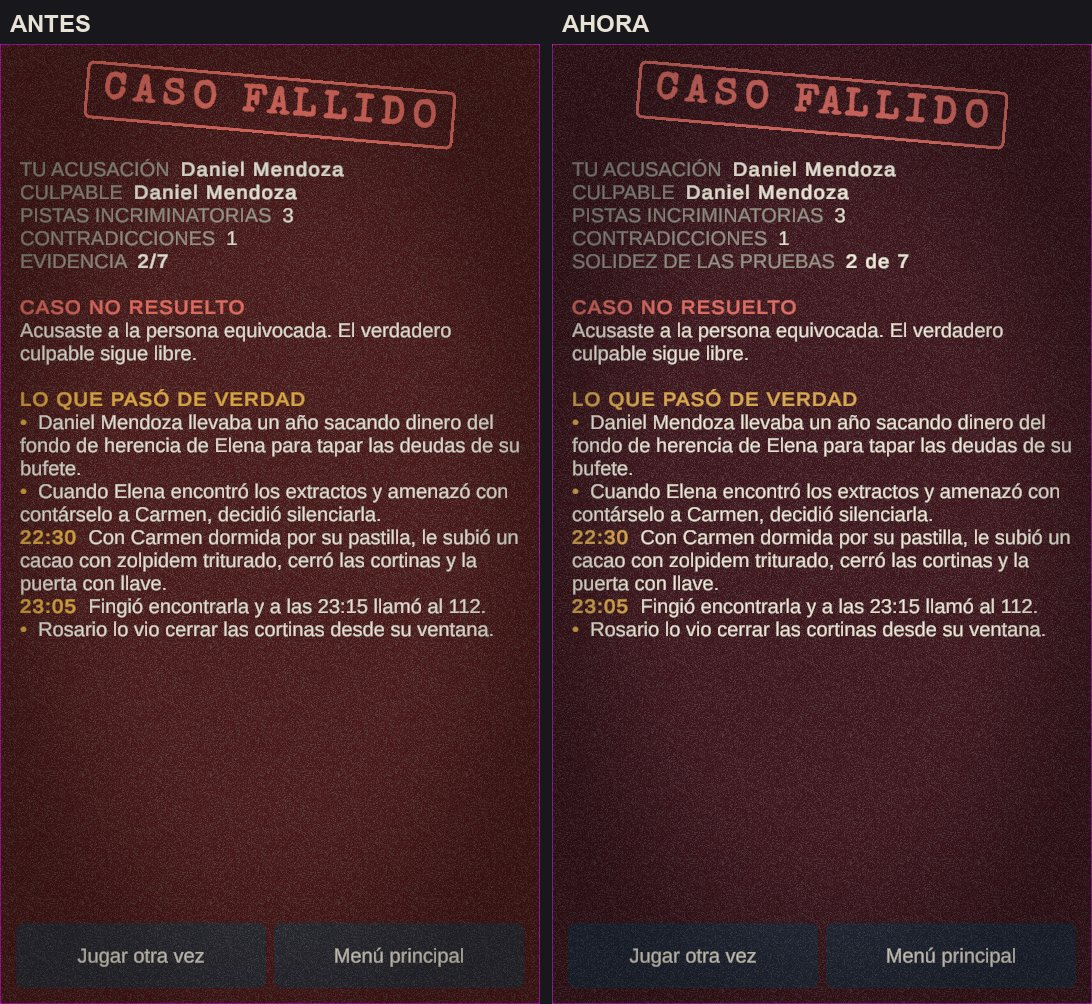
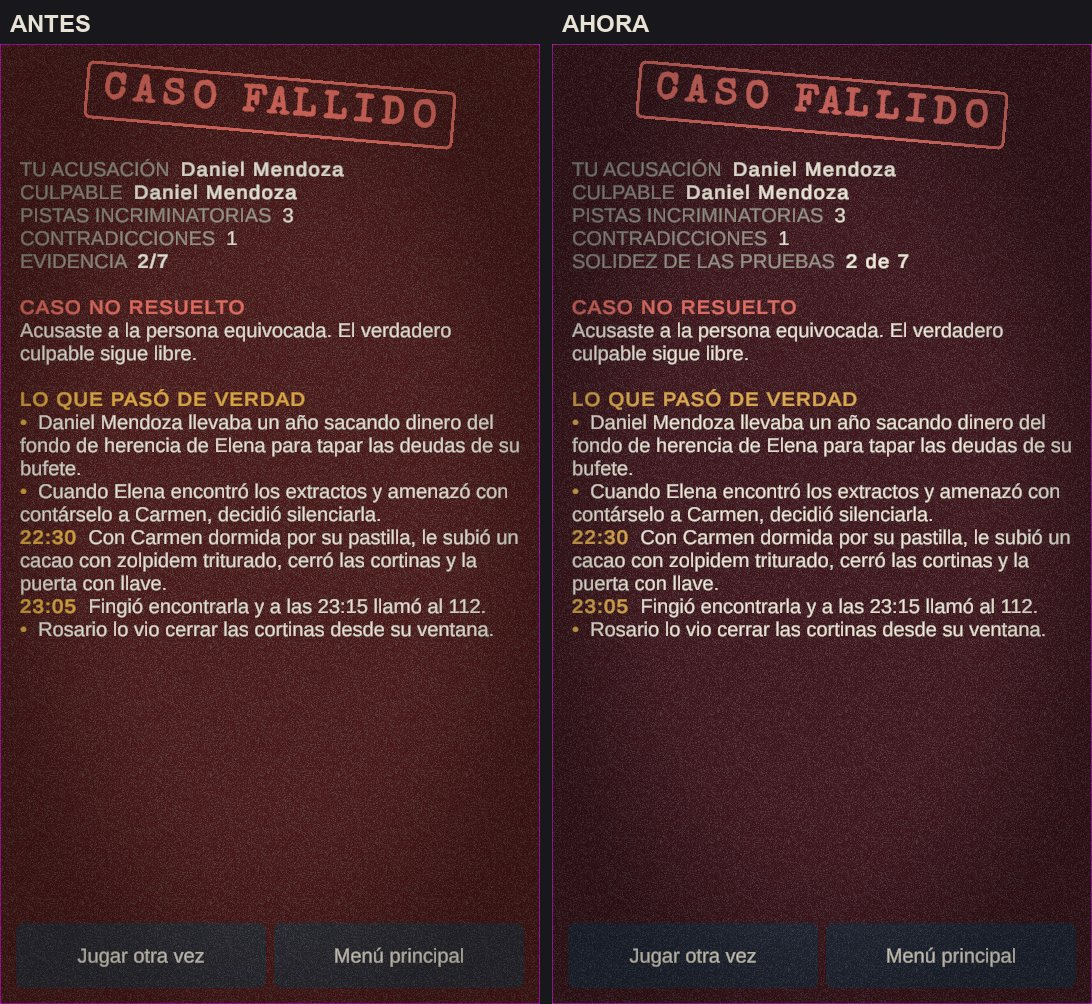
Gallery and report: lineup wall
Claude-Session: https://claude.ai/code/session_01KEoVtmbGPQRPnhweMQeCc5

diff --git a/docs/REPORT-DIA3.md b/docs/REPORT-DIA3.md
@@ -32,7 +32,7 @@ tocado.** Diario minuto a minuto: `docs/NIGHT-LOG.md`. *Borrador vivo: se comple
 | 03_expediente / 19_intros_por_historia | Fondo propio por historia (lluvia, cala, olivar) en vez de la sala genérica; reglas con las cifras de la dificultad |
 | 04_interrogatorio | Chat anclado abajo, Acusar en aviso (no dorado), retrato 2.5D |
 | 05_libreta / 22_libreta_versiones | Botón "Pensar"; lo que dice cada sospechoso, para compararlo con las pistas |
-| 06_acusacion | Retratos 2.5D en la rueda, prueba clave explicada (solo cuando hay pistas), flechas legibles |
+| 06_acusacion | Retratos 2.5D en la rueda sobre una pared de alturas de comisaría, prueba clave explicada (solo cuando hay pistas), flechas legibles |
 | 07-09 veredicto y finales | Rango del detective, prueba clave, "lo que se te escapó", "solidez de las pruebas N de M" |
 | 21_ficha_policial | Nuevo: el informe se cierra con la ficha del culpable (retrato 2.5D, nombre a máquina) |
 | 10_ajustes | Dificultad, pista de los deslizadores visible (WCAG 1.4.11) |
